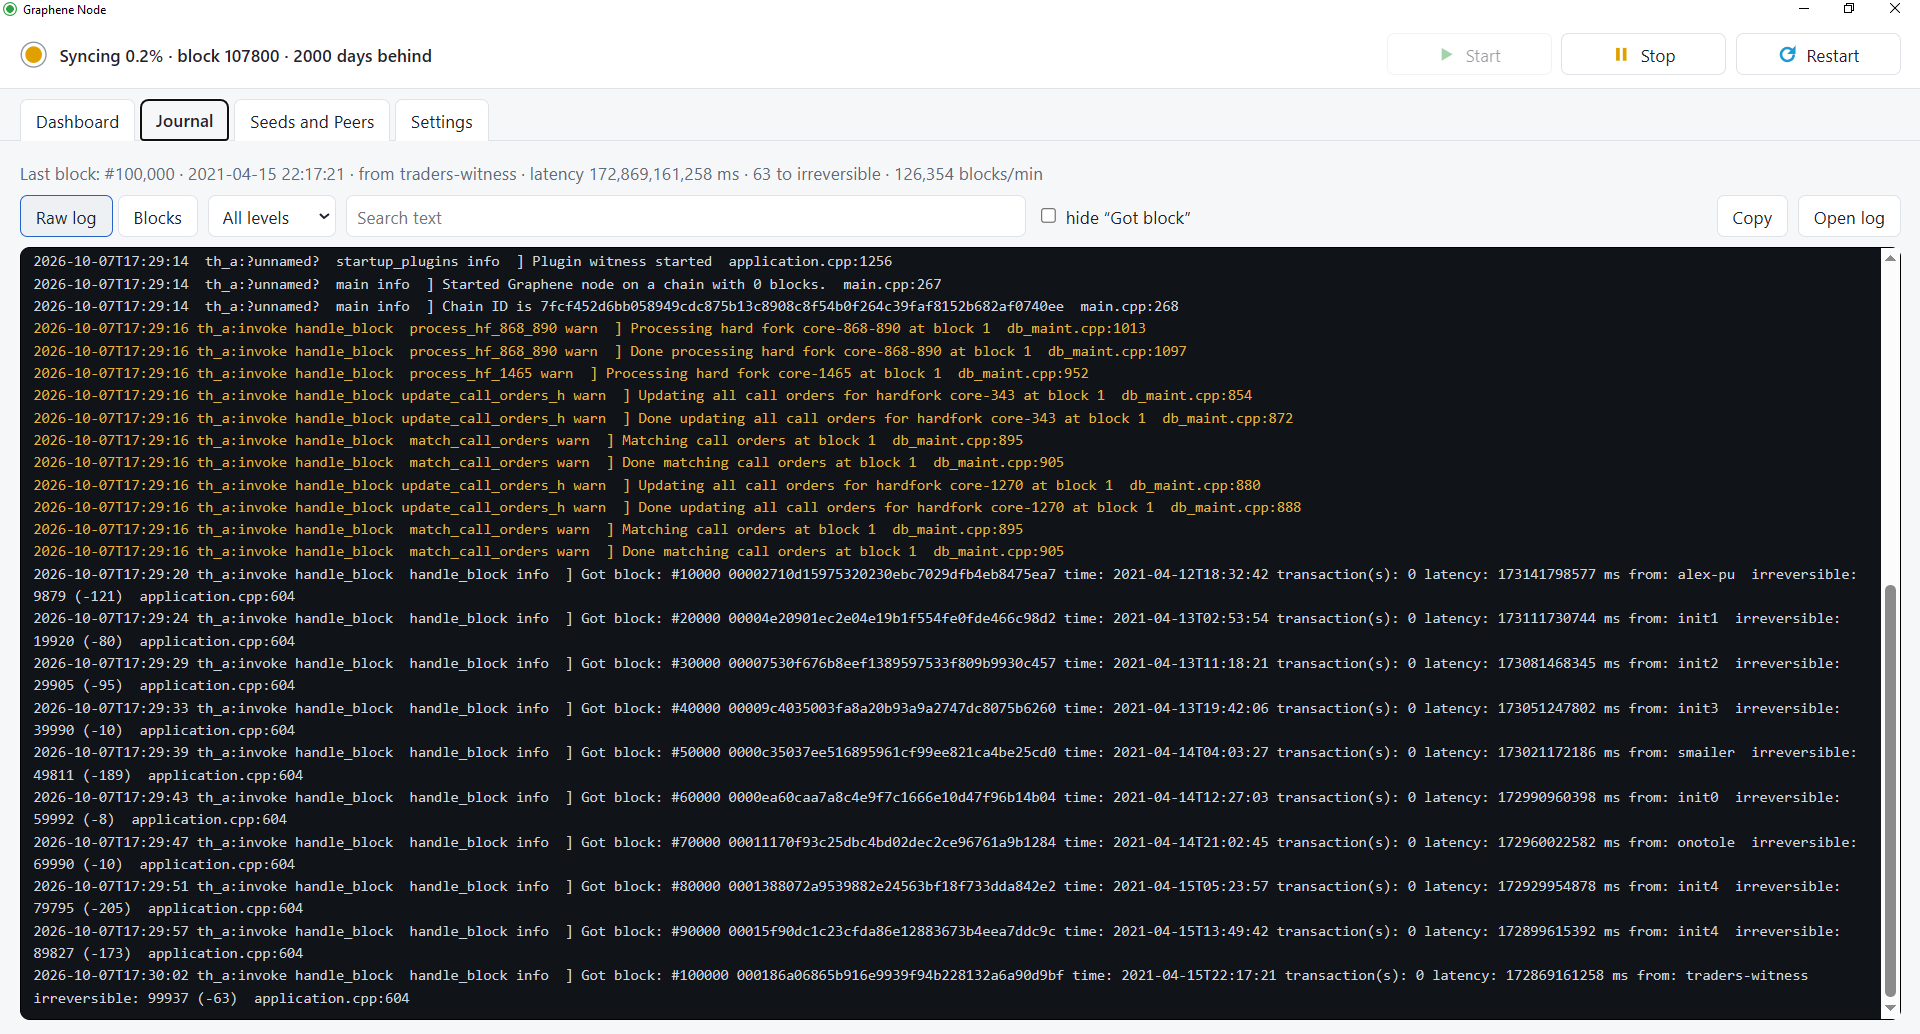
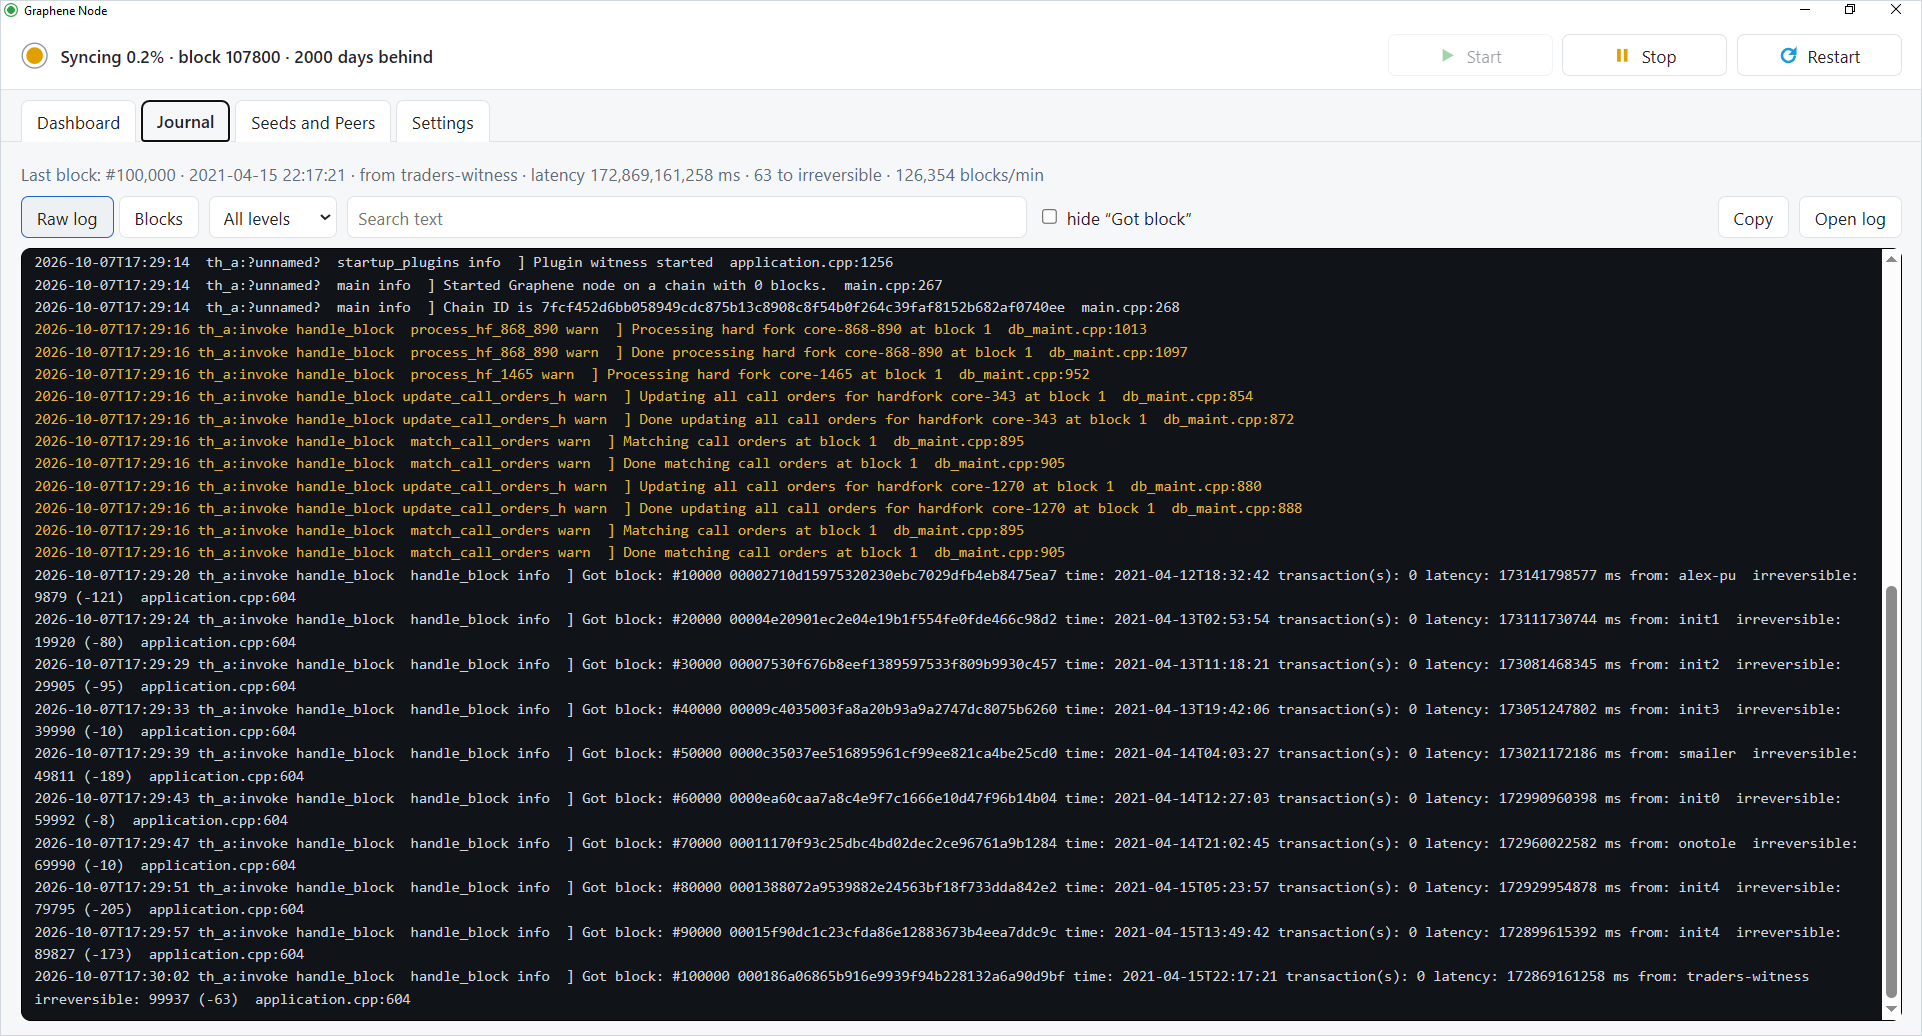
docs: a 1px border on the Windows GUI screenshots

diff --git a/images/windows-gui/README.md b/images/windows-gui/README.md
@@ -15,4 +15,6 @@ Screenshots for [README-windows-gui.md](../../README-windows-gui.md). Each is li
 | `10-smartscreen-run.png` | the same after **More info**, with **Run anyway** |
 | `11-firewall.png` | Windows Defender Firewall asking about `witness_node.exe` |
 
-PNG, the window at its normal size; crop to the window or dialog.
+PNG, the window at its normal size; crop to the window or dialog. Each has a 1px #d0d7de border, as GitHub draws
+its own boxes, so a white window does not merge into the page:
+`convert shot.png -bordercolor "#d0d7de" -border 1 NN-name.png`.
